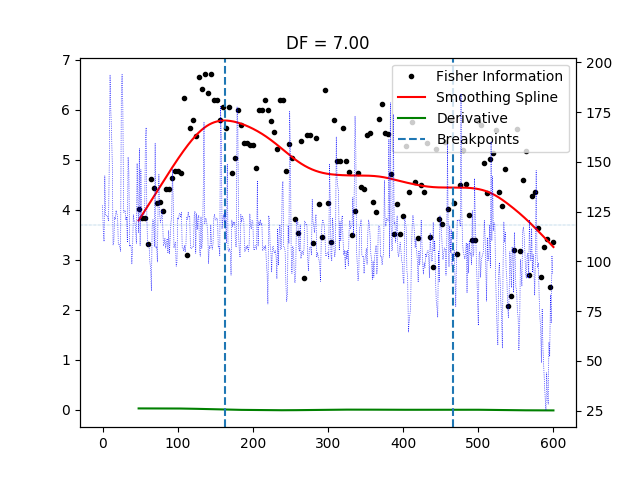
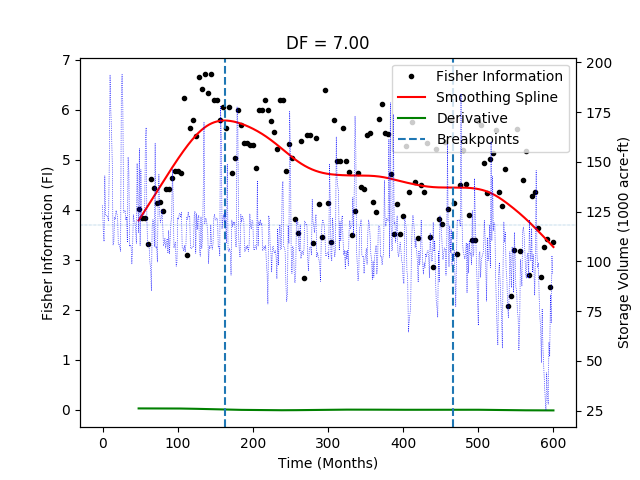
plot dates. change plot labels

Changed region(s): [[0.9688, 0.2812, 1.0, 0.7188], [0.0625, 0.3438, 0.0938, 0.6562], [0.4375, 0.9375, 0.5938, 1.0]]

diff --git a/fisher_analysis/brazil_workflow.py b/fisher_analysis/brazil_workflow.py
@@ -1,4 +1,5 @@
 import csv
+import datetime
 from ast import literal_eval
 from datetime import datetime, timedelta
 
@@ -38,10 +39,10 @@ def size_of_state(data_num, window_size):
     return sos
 
 
-def fisher(data_num, Time, w_size, w_incr, sost, f_name):
+def fisher(Numbs, Time, w_size, w_incr, sost, f_name):
     FI_final, k_init = [], []
-    for i in range(0, len(data_num), w_incr):
-        data_win = data_num[i:i+w_size]
+    for i in range(0, len(Numbs), w_incr):
+        data_win = Numbs[i:i+w_size]
         if len(data_win) == w_size:
             _bin = []
             for m in range(w_size):
@@ -149,10 +150,6 @@ def make_plot(x1, y1, x, y, spline, derivative, breaks, ylimit):
     ax2 = ax1.twinx()
     ax2.plot(x1, y1, ':b', linewidth=0.5)
 
-    ax1.set_xlabel("Time (Months)")
-    ax1.set_ylabel("Fisher Information (FI)")
-    ax2.set_ylabel("Storage Volume (1000 acre-ft)")
-
 def make_plot_w_dates(datetimes, y1, x, y, spline, derivative, breaks, ylimit):
     dates = matplotlib.dates.date2num(datetimes)
 
@@ -181,10 +178,12 @@ def make_plot_w_dates(datetimes, y1, x, y, spline, derivative, breaks, ylimit):
     ax1.set_ylabel("Fisher Information (FI)")
     ax2.set_ylabel("Percent Storage Volume (%)")
 
+
 def convert_x_to_date(x, dates):
     start, end, length = dates[0], dates[-1], len(dates)
     date_diff = (end - start) / length
     return np.array(x) * date_diff + start
+
 
 
 def FI_smooth(df_FI, df, w_size, w_incr):
@@ -203,27 +202,27 @@ def get_variable_index(vars: list, headers: list):
 
 
 def main():
-    file_no_ext = 'fisher_analysis/res-s-0.4-0'
-    filename = file_no_ext.split('-')
+    file_no_ext = 'fisher_analysis/cantar2'
+    filename = file_no_ext.split('/')
     f_name = file_no_ext + '.csv'
 
     w_size = 48
     w_incr = 4
     df = 7
-    data_num, Time = [], []
+    data_num, Time, Date = [], [], []
 
     headers, Data = read_csv_headers(f_name)
-    var_list = ['storage', ]
+    var_list = ['volume_percent', ]
     index_list = get_variable_index(var_list, headers)
 
     for i, row in enumerate(Data):
-        data_num.append([literal_eval(row[i])/1000 for i in index_list])
+        data_num.append([literal_eval(row[i]) for i in index_list])
         Time.append(i)
 
-#    time_list = ['index']
-#    time_index = get_variable_index(time_list, headers)
-#    for row in Data:
-#        Time.append(literal_eval(row[time_index[0]]))
+    date = ['date']
+    date_index = get_variable_index(date, headers)
+    for row in Data:
+        Date.append(datetime.strptime(row[date_index[0]], '%Y-%m-%d'))
 
     sost = size_of_state(data_num, w_size)
     df_FI = fisher(data_num, Time, w_size, w_incr, sost, file_no_ext)
@@ -233,9 +232,9 @@ def main():
     __, __, perc_range = min_max_perc(FI, 0.35)
     xs = np.arange(time_index[0], time_index[-1], 0.02)
     breaks = find_breaks(list(xs), list(spline(xs)), list(derivative(xs)), perc_range)
-    make_plot(Time, data_num, time_index, FI, spline, derivative, breaks, perc_range)
+    make_plot_w_dates(Date, data_num, time_index, FI, spline, derivative, breaks, perc_range)
 
-    plt.title(f'Falls Lake Reservoir Model\nShift: {filename[2]}, Run: {filename[3]}')
+    plt.title(filename[1])
     _file = f'{file_no_ext}_overlay.png'
     plt.savefig(_file)
     plt.gcf().clear() # clear old plot
